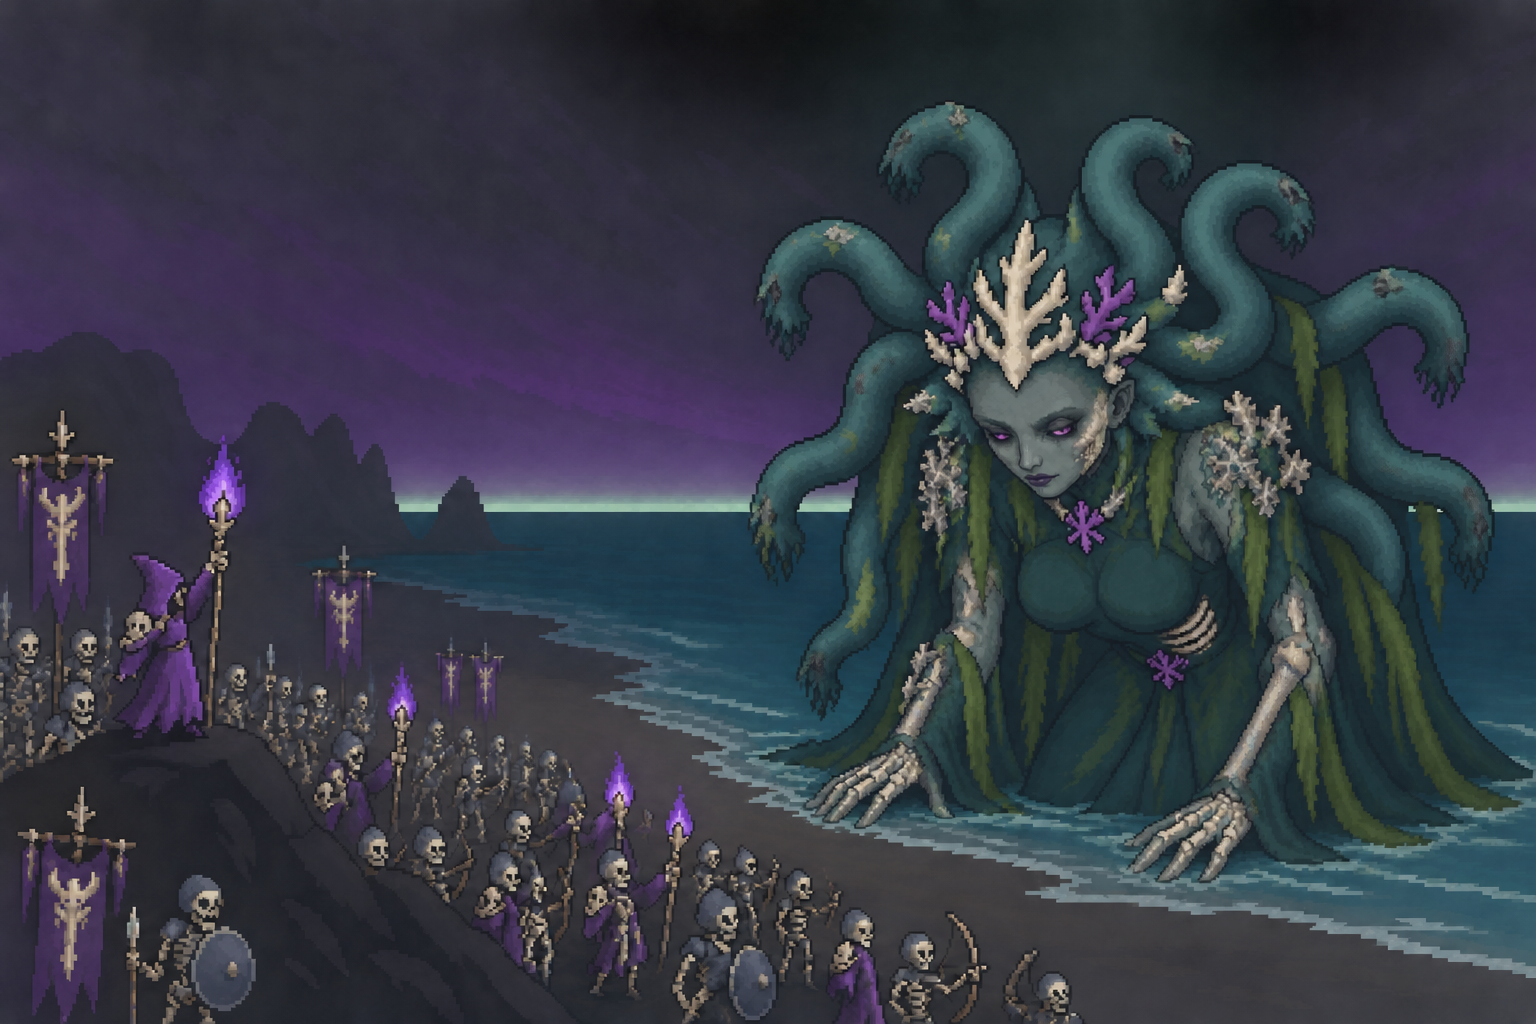
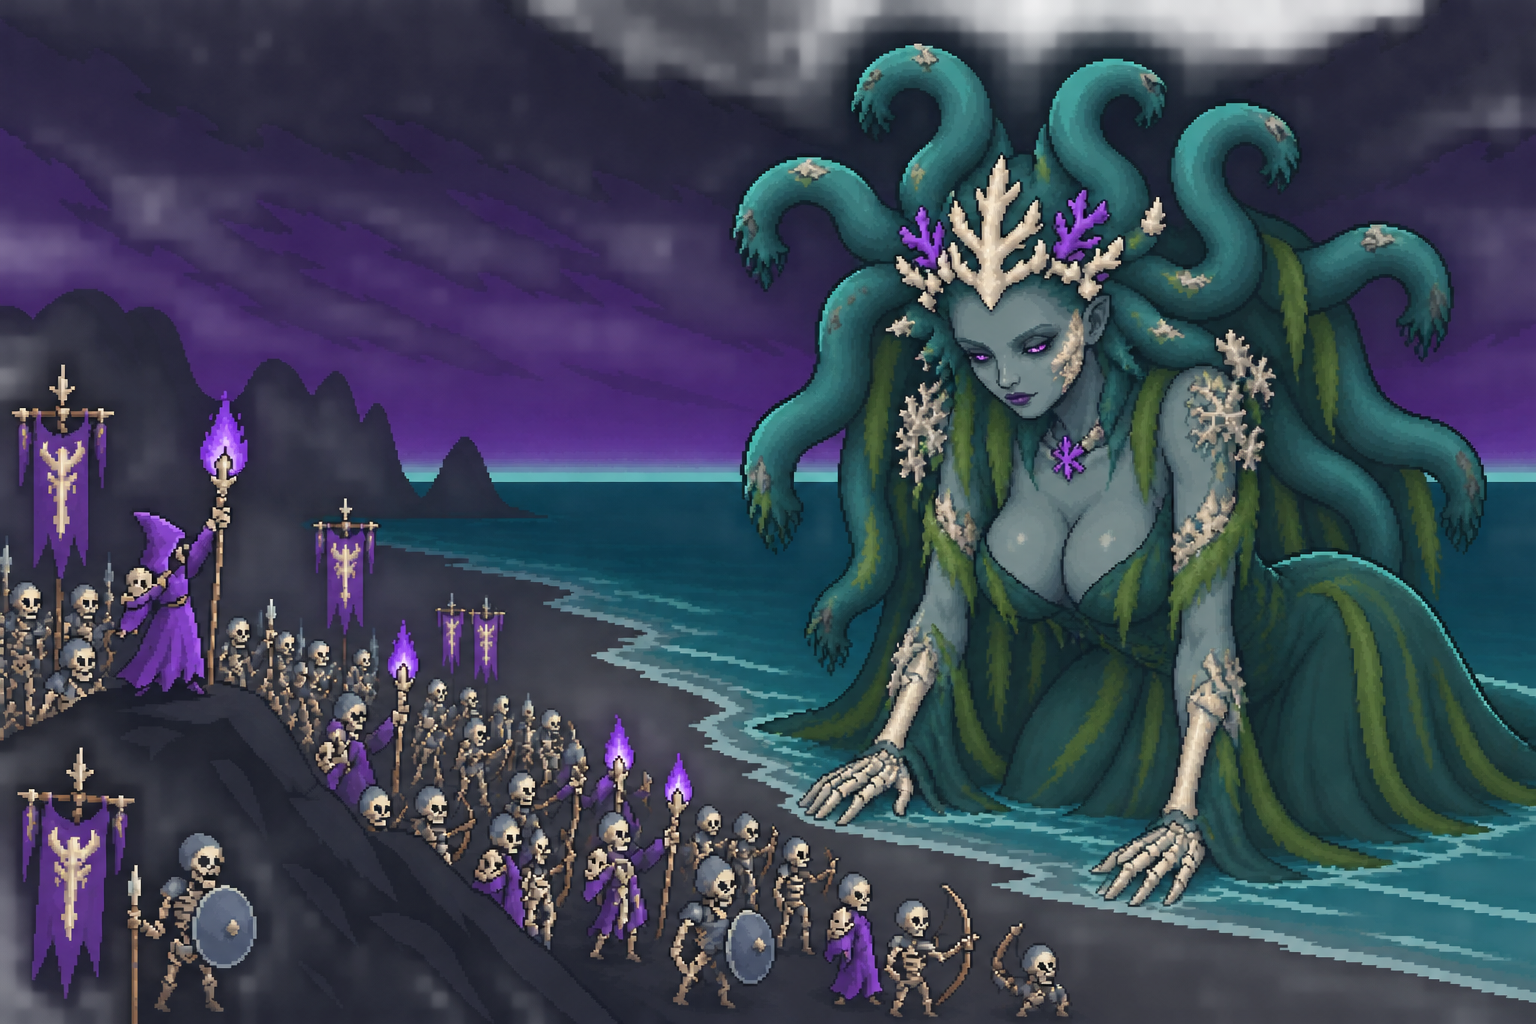
Vhal'Neth epilogue panel, round 3: cleavage, pushed figure, bright left side
Owner note: "her figure needs to pop more hence she needs to be hotter,
we need cleavage". A third edit of the source: a plunging neckline of
wet clinging kelp (still clothed, nothing explicit), a stronger
hourglass, a teal rim light, and the necromancer and army back at the
first panel's brightness. GDD 15.0 and ART_BIBLE updated.

Claude-Session: https://claude.ai/code/session_01FLPv2RqRe5qVsRWxUhur7z

diff --git a/docs/GDD.md b/docs/GDD.md
@@ -1616,7 +1616,7 @@ Decisions made since the source was written are recorded in 15.0; everything bel
 | — | More ultimates (content wave 2) | Proposal 4 as approved: **Sovereign's Decree**, **Eclipse** and **Grave Tide** beside **Dread Rally** (the default, always open). One path: `UltimateData` (numbers), `UltimateSystem` as `game.ultimates` (the cast, timers and effects), the shared 240-point Dread Rally meter, key / pad / touch button and HUD slot (`hud_abilities.gd` shows the chosen one's icon; Settings names the action "Ultimate"). Picked for any character on the pre-run screen (`PreRunUltimates`, an "Ultimate" row in the right column under the modifiers, its tiles lined up with them; at the merge the hero column with the new title row and the picker overflowed 720 px into the hint strip, so the picker moved there and the total Soul Ash plaque moved into the button row between Standard and Begin), `RunConfig.ultimate_id`, Meta `[prerun] ultimate`, kept by Restart; locked ones padlocked with their achievement (`UnlockData` rows of the rewards workstream: Dread Sovereign, Dawn Extinguished, Mass Grave). Effects through the existing single paths: the Decree's taunt and 50% summon damage cut and the untargetable necromancer in `CombatResolver`; Eclipse's 4 s darkness freezes every non-boss foe on screen (`freeze_enemy()`; bosses and minibosses only slowed 60%, never frozen or stunned; Reckoning foes and structures immune) and exposes every foe it caught to +30% damage (`expose_enemy()`, the one Eclipse debuff, `Enemy.expose_*`, read in `damage_enemy()`); Grave Tide raises every foe that dies for 10 s as a 12 s Risen through `spawn_temporary()` (never a boss, miniboss, Reckoning foe or structure; at most 24 alive; Restless Dead and the Grave Herald lengthen them). Autotest `--ultimate=ID` (opens that ultimate's lock on its own; the bots cast it with the Dread Rally rule) and an `ultimate` summary line; the Gravecaller with Dread Rally stays bit-for-bit identical. **A/B batch** (army bot, `--mortal`, meta none, seeds 1-4 on the Graveyard, Sanctum and Archive): Dread Rally 0 deaths, mean min HP 104, bosses 12/12; Decree 0 / 103 / 11 of 12; Grave Tide 0 / 102 / 12 of 12; none beats Dread Rally. Eclipse first lost 2 of 4 Archive runs (the army starved for kills once nothing raised it), so two tuning calls: the exposure applies in full on bosses (`ECLIPSE_EXPOSE_BOSS_MULT` 0.5 → 1.0, the proposal's wording) and from the cast instead of after the darkness (`ECLIPSE_EXPOSE_LEAD` 4 s, so the army cashes in on the frozen foes): Archive 1 death in 4 (seed 4, whose early game collapses unless the ultimate adds bodies), min HP 71 / 116 / 112. Eclipse stays the emergency brake, not an army rescue; its Archive weakness waits for the owner's playtest ("we'll need to see them in action"). Art: three icons and three burst strips (owner review). |
 | — | Parallel CI and lean testing (owner request, Oct 2026) | The owner found the testing on every update slow. CI ran its 7 full playthroughs one after another (~3 min each) and only then the export (~7 min): ~30 min from a push to `main` to the live build. Now each playthrough is its own job in a matrix and the export runs beside them; the release (tags) and both publish jobs wait for every test and the export, so a failing test still never ships. Same coverage, ~8-10 min to live, at the price of ~10 more billed runner minutes per run (each job sets itself up). Local testing during development is tiered: while building, only the runs for the area a change touches plus one default run; the full set (default / `--mortal` / `--policy=army`, every stage, the same-seed gates) once per batch, before `main` moves; multi-seed batches only for balance changes. |
 | — | Act III proposal (owner answers, Oct 2026) | The Claude Docs proposal "Necropathy: Act III Proposal (The Electronic Empire)" (https://claude.ai/code/artifact/d3e3ce9a-acfe-4c48-ac85-d2733254af19) is approved with the owner's answers: the faction is **the Electronic Empire** ("the Empire"), a machine power that *saw* the Act II beacons and came (nobody called it); three stages (the Scrap Wastes, the Assembly Halls, the Iron Citadel); about 60% ranged enemies with **Line of Fire** (the army is cover; the volleys keep it fair), **Lock-On** telegraphs (at most 3 lines), **Steel has no soul** (machines leave no corpse, cyborgs rise armed); machine-pun bosses **Kestrel, the Dead Pixel**, **the Motherboard** and **Deus Ex Machina** (with **Varn, the Root User**), minibosses the Trojan Horse, the Beta Build and Valkyrie 2.0; rewards **Death Ray** (owner: no stand-in-place area spell; a sweeping soul laser that moves with you and sparks lightning on kills, evolution Event Horizon + Conductive Marrow), Hollow Puppet, **Scrap Swarm** (orbits outside the Bone Ring), their characters, the Grave Drone and Iron Revenant classes; every female character in the figure-redesign style; Act III opens when Vhal'Neth falls; built like Act II (foundation, then the stages in parallel). Not started: it follows the wave 2 art review. |
-| — | Wave 2 art review: Golem redo (owner notes, Oct 2026) | The owner's content wave 2 art review, in line with making details bigger: **Bone Golem** "let's make his torso a huge skull" → the whole torso is now one huge bone skull (no separate head; big eye sockets with teal soul flames, the jaw at the belly), stacked-bone arms with huge low fists, stumpy legs (84x80, same height); its walk strip rebuilt from the new still (`walk_cycle.py`, rig re-cut). **Ossuary Titan** "edit in line with his changes" → the same huge-skull torso, grander: a crown of bone spikes, gravestone pauldrons, heavier fists (108x104) and its walk strip; its gold badge redone to match. **Golem badge** "make the skull bigger" → the skull fills the badge. **Golem slam** "the crater looks like it's moving" → every frame shifted so the crater stays on the slam point (art only, no regeneration). **Epilogue panel act2_4** "make her more undead looking and hotter" → Vhal'Neth redone as a drowned dead goddess (dead skin, rotted cheek, glowing eyes, skeletal forearms and hands, exposed ribs) in the figure-redesign style (hourglass figure, fully covered by a kelp gown); composition, palette and pixel scale kept. Art only: no gameplay, data or balance change (docs/art/ART_BIBLE.md, "Content wave 2: the Bone Golem" and "Epilogue panels"). |
+| — | Wave 2 art review: Golem redo (owner notes, Oct 2026) | The owner's content wave 2 art review, in line with making details bigger: **Bone Golem** "let's make his torso a huge skull" → the whole torso is now one huge bone skull (no separate head; big eye sockets with teal soul flames, the jaw at the belly), stacked-bone arms with huge low fists, stumpy legs (84x80, same height); its walk strip rebuilt from the new still (`walk_cycle.py`, rig re-cut). **Ossuary Titan** "edit in line with his changes" → the same huge-skull torso, grander: a crown of bone spikes, gravestone pauldrons, heavier fists (108x104) and its walk strip; its gold badge redone to match. **Golem badge** "make the skull bigger" → the skull fills the badge. **Golem slam** "the crater looks like it's moving" → every frame shifted so the crater stays on the slam point (art only, no regeneration). **Epilogue panel act2_4** "make her more undead looking and hotter" → Vhal'Neth redone as a drowned dead goddess (dead skin, rotted cheek, glowing eyes, skeletal forearms and hands, exposed ribs) in the figure-redesign style (hourglass figure, fully covered by a kelp gown); composition, palette and pixel scale kept. Round 3 (owner: "her figure needs to pop more hence she needs to be hotter, we need cleavage"): a third image edit gives her a plunging sweetheart neckline of wet clinging kelp with clear cleavage and a pushed hourglass figure (still clothed, nothing explicit), a teal rim light against the sky, and restores the left side (necromancer, army, banners) to the first panel's brightness. Art only: no gameplay, data or balance change (docs/art/ART_BIBLE.md, "Content wave 2: the Bone Golem" and "Epilogue panels"). |
 | — | Wave 2 art review: Untouchable and Deathlord skins | The owner's note on both universal skins (they were palette variants: the character's sprite times a tint, with an aura and an emblem): "Don't just tint here, let's make a cool new skin". **Owner choice: full drawn art for every character.** All 15 playable characters now have both skins as true pixel art, `player/<character>_untouchable.png` and `_deathlord.png`: **Untouchable** is a ghost-white phantom (pale luminous robes in ice white and pale blue, the hem dissolving into a few big wisp tails, soul-teal eyes, flames and weapon glows, a pale lavender lining so the player's violet stays); **Deathlord** is a crowned dread-king (a big spiked or horned gold crown, a flat mid-violet robe or gown with black-iron armour pieces, gold only on a few large pieces, a crimson-lined mantle; the robe stays mid violet, not black, so the skin clears the floors). Each was generated with the character's own sprite as the reference (same pose, silhouette class and body height; a crown or ghost hair above the head adds rows on top, `SpriteData.HEIGHTS` rows) and converted like the Hyper skins; the four women keep the figure-redesign style (hourglass, fully clothed, the bust rig: walk bounce and idle breathing strips). Review redraws: the female ghosts once for readable faces (uncovered, warm bone skin against the cold white; one eye hand-painted), the Deathlords once to remove scattered gold specks (the Voidcaller keeps her first). Walk strips for all 30 and idle strips for the 8 bust skins come from the derived skin rigs (`walk_cycle.py` `SKINS`, two `SKIN_FIX` bust boxes). **No code path changed:** `SkinGlyphs.draw_skin()` already draws a skin's own PNG as-is (no tint, aura or emblem); the tint path stays the fallback for a missing PNG. Purely cosmetic, as every skin. **Owner's review round 2:** both Voidcaller skins are redrawn in the figure-redesign style (hourglass, big bust, wide hips and rear, fully clothed; her base sprite unchanged) with a bust rig, walk bounce and idle strip, and the Tide Widow Deathlord's bust box moves up from her belt onto her bust (walk and idle strips rebuilt). |
 
 ### 15.1 Core Rules and Run Structure

diff --git a/docs/art/ART_BIBLE.md b/docs/art/ART_BIBLE.md
@@ -1561,7 +1561,7 @@ slowly in a 944×424 window. Panels are whole opaque scenes, **1024×576 art px*
 | `act2_1` | Act II ¶1: the tide pulls back from Gullhaven | AI source, converted | drained mudflats, stranded boats and chains, the harbour town and chapel, the Eye's faithful praying on the pier, a wall of water and a vast eye on the horizon |
 | `act2_2` | Act II ¶2: the Archive's last page burns | AI source, converted | towering shelves and the brass orrery, the giant book on a lectern in violet / soul-teal fire, the Archivist kneeling, the necromancer's raised hand |
 | `act2_3` | Act II ¶3: Ul-Thalos sinks | AI source, converted | the drowned spire city tilting into foam rings under a full moon, abyssal violet windows; the necromancer and two skeletons on the rocks |
-| `act2_4` | Act II ¶4: Vhal'Neth kneels | AI source (two edits of the first one), converted | the goddess bowing on the shore, bone hands on the sand; the army with bone banners and the necromancer raising his staff. **Wave 2 art review redo** (owner: "more undead looking and hotter"): a drowned dead goddess (dead blue-grey skin, rotted cheek, glowing violet eyes, skeletal forearms and hands, ribs through a tear in her gown, barnacled coral, frayed tentacles) in the figure-redesign style (hourglass figure, fully covered by a high-necked kelp gown); converted with 64 clusters and flame / crimson dropped (`PANEL_OPTS`) so the gown stays flat shades |
+| `act2_4` | Act II ¶4: Vhal'Neth kneels | AI source (three edits of the first one; round 3: plunging neckline with cleavage, pushed hourglass, rim light, left side brightened), converted | the goddess bowing on the shore, bone hands on the sand; the army with bone banners and the necromancer raising his staff. **Wave 2 art review redo** (owner: "more undead looking and hotter"): a drowned dead goddess (dead blue-grey skin, rotted cheek, glowing violet eyes, skeletal forearms and hands, ribs through a tear in her gown, barnacled coral, frayed tentacles) in the figure-redesign style (hourglass figure, fully covered by a high-necked kelp gown); converted with 64 clusters and flame / crimson dropped (`PANEL_OPTS`) so the gown stays flat shades |
 | `close` | Closing card: "The Beacons Burn" | AI source, converted | beacons on the peaks, a fortress gate with three orders' banners (white / gold sun, blue / silver star, grey / white sword), knights in steel and blue cloaks marching out; never Covenant crimson, never necromancer violet |
 
 **How they are made.** `art_source/epilogue/<id>.png` (1536×1024, `tools/gen_image.py`, prompt in
